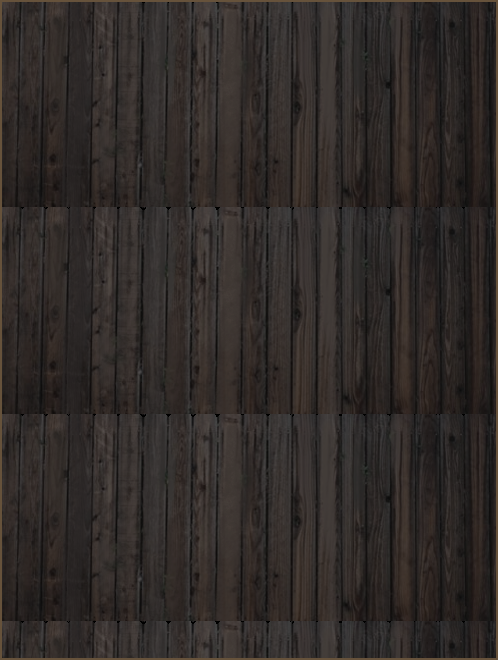
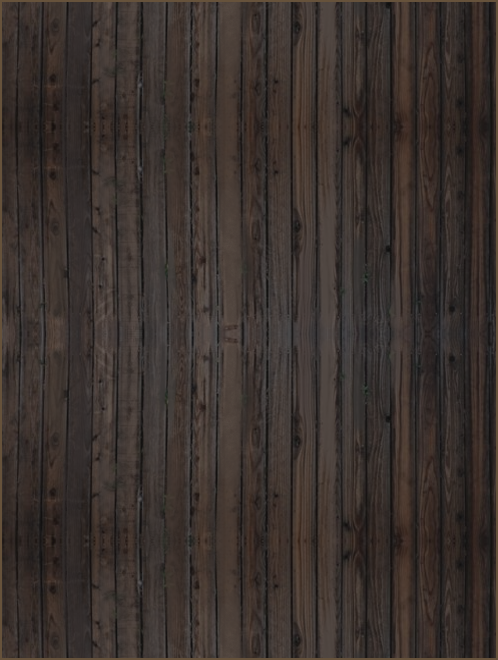
Restore original education noticeboard and join wood grain seamlessly

diff --git a/tools/generate_education_reform.py b/tools/generate_education_reform.py
@@ -449,7 +449,7 @@ def gui_outputs():
         button(f'edu_category_{category}',f'GFX_RUS_edu_workbench_category_{category}',x,182,f'RUS_edu_category_{category}_tooltip')
         text(f'edu_category_{category}_label',f'RUS_edu_category_icon_{category}',x,242,72,h=18,transparent=True)
     text('edu_catalog_heading','RUS_edu_catalog_heading',54,282,390,h=22)
-    icon('education_noticeboard','GFX_RUS_education_noticeboard',0,298)
+    icon('education_noticeboard','GFX_RUS_education_noticeboard',0,334)
     button('edu_board_next','GFX_RUS_edu_workbench_page',444,278,'RUS_edu_board_next_tooltip')
     props=[f'{kind}_bar = {{ frame = RUS_edu_bar_{kind} }}' for kind in VARS]
     guard='has_country_flag = RUS_education_system_active'
@@ -465,19 +465,14 @@ def gui_outputs():
         'if = { limit = { check_variable = { RUS_edu_board_page = 1 } } '+setv('RUS_edu_board_page',2)+' }',
         'else = { '+setv('RUS_edu_board_page',1)+' }','RUS_education_refresh = yes']),'}']).strip())
     for i,x in enumerate((6,168,330),1):
-        page=' check_variable = { RUS_edu_board_page < 2 }' if i==3 else ''
-        icon(f'poster_empty_{i}','GFX_RUS_edu_workbench_pockets',x,334,frame=2)
-        icon(f'poster_locked_{i}','GFX_RUS_edu_workbench_pockets',x,334,frame=1)
         icon(f'poster_{i}','GFX_RUS_education_posters',x,334,'RUS_edu_slot_'+str(i)+'_tooltip')
         icon(f'activity_progress_{i}','GFX_RUS_edu_activity_bar',x+21,547)
         text(f'activity_name_{i}','RUS_edu_slot_'+str(i)+'_name',x+1,574,158,h=36)
         text(f'activity_days_{i}','RUS_edu_slot_'+str(i)+'_text',x+1,612,158,h=22)
-        triggers += [f'poster_{i}_visible = {{ check_variable = {{ RUS_edu_catalog_{i}_running = 1 }}'+page+' }',
-                     f'poster_empty_{i}_visible = {{ NOT = {{ check_variable = {{ RUS_edu_catalog_{i}_running = 1 }} }} check_variable = {{ RUS_edu_catalog_{i}_frame > 1 }}'+page+' }',
-                     f'poster_locked_{i}_visible = {{ NOT = {{ check_variable = {{ RUS_edu_catalog_{i}_running = 1 }} }} check_variable = {{ RUS_edu_catalog_{i}_frame = 1 }}'+page+' }',
-                     f'activity_progress_{i}_visible = {{ check_variable = {{ RUS_edu_catalog_{i}_running = 1 }} }}',
+        triggers += [f'activity_progress_{i}_visible = {{ check_variable = {{ RUS_edu_catalog_{i}_running = 1 }} }}',
                      f'activity_days_{i}_visible = {{ check_variable = {{ RUS_edu_catalog_{i}_running = 1 }} }}']
-        if i==3:triggers += ['activity_name_3_visible = { check_variable = { RUS_edu_board_page < 2 } }']
+        if i==3:triggers += ['poster_3_visible = { check_variable = { RUS_edu_board_page < 2 } }',
+                            'activity_name_3_visible = { check_variable = { RUS_edu_board_page < 2 } }']
         props += [f'poster_{i} = {{ image = "[RUSEducationPosterAge{i}]" frame = RUS_edu_catalog_{i}_frame }}',f'activity_progress_{i} = {{ frame = RUS_edu_catalog_{i}_progress }}']
     gui='guiTypes = {\n'+block('containerWindowType',['name = "RUS_education_dashboard_window"','position = { x = 4 y = 0 }','size = { width = 498 height = 660 }']+ui)+'}\n'
     sgui='scripted_gui = {\n'+block('RUS_education_dashboard',['context_type = decision_category','window_name = "RUS_education_dashboard_window"',block('properties',props).strip(),block('triggers',triggers).strip(),block('effects',click_effects).strip()])+'}\n'
@@ -487,15 +482,14 @@ def gui_outputs():
     sprites.append(block('spriteType',['name = "GFX_RUS_education_posters"',f'texturefile = "{ART.as_posix()}/posters.dds"',f'noOfFrames = {len(ACTIVITIES)+2}']))
     for stage in range(1,4):
         sprites.append(block('spriteType',[f'name = "GFX_RUS_education_posters_aged_{stage}"',f'texturefile = "{ART.as_posix()}/posters_aged_{stage}.dds"',f'noOfFrames = {len(ACTIVITIES)+2}']))
-    sprites.append(block('spriteType',['name = "GFX_RUS_education_noticeboard"',f'texturefile = "{WORKBENCH.as_posix()}/clipboard.png"','legacy_lazy_load = no']))
+    sprites.append(block('spriteType',['name = "GFX_RUS_education_noticeboard"','texturefile = "gfx/interface/propaganda/propaganda_bg.dds"','legacy_lazy_load = no']))
     for name in ('metric_panel','metric_name_panel','metric_value_panel'):
         path=WORKBENCH/'metric_plate.png' if name=='metric_panel' else ART/(name+'.dds')
         sprites.append(block('spriteType',[f'name = "GFX_RUS_education_{name}"',f'texturefile = "{path.as_posix()}"']))
     for kind,texture in [('basic',f'{ART.as_posix()}/basic_texticon.dds'),('higher',f'{ART.as_posix()}/higher_texticon.dds'),('heat','gfx/texticons/SOV_propaganda_text_icon.dds')]:
         sprites.append(block('spriteType',[f'name = "GFX_RUS_edu_{kind}_texticon"',f'texturefile = "{texture}"','legacy_lazy_load = no']))
-    for name in ['desk','memo','intro','page','selection','pockets']+[f'category_{c}' for c in POSTER_CATEGORIES]:
+    for name in ['desk','memo','intro','page','selection']+[f'category_{c}' for c in POSTER_CATEGORIES]:
         fields=[f'name = "GFX_RUS_edu_workbench_{name}"',f'texturefile = "{WORKBENCH.as_posix()}/{name}.png"','legacy_lazy_load = no']
-        if name=='pockets':fields.append('noOfFrames = 2')
         if name in ('intro','page') or name.startswith('category_'):fields+=['noOfFrames = 1','effectFile = "gfx/FX/buttonstate.lua"']
         sprites.append(block('spriteType',fields))
     return {GUI:gui,SGUI:sgui,GFX:'spriteTypes = {\n'+''.join(sprites)+'}\n'}
@@ -605,8 +599,8 @@ def localisations():
         l['RUS_edu_'+aid+'_finish_tt']=finish
         l['RUS_edu_activity_'+aid]=a['name']
     for i in range(1,4):
-        l[f'RUS_edu_slot_{i}_name']=f'§b[RUSEducationSlot{i}]§!'
-        l[f'RUS_edu_slot_{i}_text']=f'§b[RUSEducationSlot{i}Days]§!'
+        l[f'RUS_edu_slot_{i}_name']=f'[RUSEducationSlot{i}]'
+        l[f'RUS_edu_slot_{i}_text']=f'[RUSEducationSlot{i}Days]'
         l[f'RUS_edu_slot_{i}_countdown']=f'剩余 [?RUS_edu_catalog_{i}_days|0] 天'
         l[f'RUS_edu_slot_{i}_tooltip']=f'[RUSEducationSlot{i}]\\n[RUSEducationSlot{i}Days]'
     from education_workbench_art import spec as workbench_spec

diff --git a/tools/test_education_reform.py b/tools/test_education_reform.py
@@ -912,20 +912,25 @@ class EducationTests(unittest.TestCase):
                     self.assertEqual(strip.crop((pct*118,0,(pct+1)*118,21)).tobytes(),expected.tobytes())
                 self.assertNotEqual(strip.getpixel((20*118+10,10)),base.getpixel((10,10)),'The native fill layer must be visibly nonempty')
         sprites={x.value('name').strip('"'):x for root in load(ROOT/GFX) for x in root.v}
-        self.assertEqual(sprites['GFX_RUS_education_noticeboard'].value('texturefile').strip('"'),'gfx/interface/RUS_education/workbench/clipboard.png')
+        self.assertEqual(sprites['GFX_RUS_education_noticeboard'].value('texturefile').strip('"'),'gfx/interface/propaganda/propaganda_bg.dds')
+        with Image.open(ROOT/'gfx/interface/RUS_education/workbench/desk.png') as desk, Image.open(game/'gfx/interface/propaganda/propaganda_bg.dds') as wood:
+            self.assertEqual(desk.getchannel('A').getextrema(),(255,255))
+            # The original board keeps its grain; both adjoining rows meet exactly.
+            self.assertEqual(desk.crop((2,334,496,541)).convert('RGB').tobytes(),wood.crop((2,0,496,207)).convert('RGB').tobytes())
+            for joint in (334,541):
+                self.assertEqual(desk.crop((2,joint-1,496,joint)).tobytes(),desk.crop((2,joint,496,joint+1)).tobytes())
         controls=load(ROOT/GUI)[0].v[0].v;names=[n.value('name').strip('"') for n in controls if n.value('name')]
         self.assertLess(names.index('education_noticeboard'),names.index('poster_1'))
         triggers=load(ROOT/SGUI)[0].v[0].one('triggers');m=initialized()
         for i in range(1,4):
             self.assertFalse(m.check(triggers.one(f'activity_progress_{i}_visible')))
             self.assertFalse(m.check(triggers.one(f'activity_days_{i}_visible')))
-            self.assertFalse(m.check(triggers.one(f'poster_{i}_visible')))
-            self.assertTrue(m.check(triggers.one(f'poster_{"locked" if i==3 else "empty"}_{i}_visible')))
+            self.assertFalse(any(name in names for name in (f'poster_empty_{i}',f'poster_locked_{i}')))
+            self.assertTrue(m.check(triggers.one(f'poster_{i}_visible')) if triggers.one(f'poster_{i}_visible') else True)
             self.assertEqual(m.vars[f'RUS_edu_catalog_{i}_frame'],1 if i==3 else 2)
             self.assertEqual(m.vars[f'RUS_edu_catalog_{i}_activity'],0)
         m.start('literacy');self.assertTrue(m.check(triggers.one('activity_progress_1_visible')))
-        self.assertTrue(m.check(triggers.one('poster_1_visible')))
-        self.assertFalse(m.check(triggers.one('poster_empty_1_visible')))
+        self.assertGreater(m.vars['RUS_edu_catalog_1_frame'],2)
         m.end('literacy',True);self.assertFalse(m.check(triggers.one('activity_progress_1_visible')))
         window=load(ROOT/GUI)[0].v[0]
         self.assertEqual(window.one('position').value('x'),'4')

diff --git a/tools/education_workbench_art.py b/tools/education_workbench_art.py
@@ -62,10 +62,15 @@ def render():
         icon=fit(subject,box);paste(out,icon,((size[0]-icon.width)//2,top))
         return out
     out={}
-    wood=images['wood'];desk=Image.new('RGBA',tuple(data['canvas']))
-    for y in range(0,desk.height,wood.height):desk.alpha_composite(wood,(0,y))
-    rgb=ImageEnhance.Color(desk.convert('RGB')).enhance(.75)
-    rgb=ImageEnhance.Brightness(rgb).enhance(.85);desk=rgb.convert('RGBA')
+    # Anchor the untouched native board at y334, then reflect its grain above
+    # and below. Matching edge rows avoid horizontal repeat seams or a colour
+    # jump under the native overlay. Use opaque RGB so its ragged alpha edge
+    # does not leave black holes at the extension joints.
+    wood=images['wood'].convert('RGB');desk=Image.new('RGBA',tuple(data['canvas']))
+    for y in range(desk.height):
+        phase=(y-334)%(2*wood.height)
+        source_y=phase if phase<wood.height else 2*wood.height-1-phase
+        desk.paste(wood.crop((0,source_y,wood.width,source_y+1)),(0,y))
     ImageDraw.Draw(desk).rectangle((0,0,desk.width-1,desk.height-1),outline='#66523b',width=2)
     out['desk']=desk
     out['memo']=plate((406,64));out['metric_plate']=plate((160,82))

diff --git a/维护索引.md b/维护索引.md
@@ -73,7 +73,7 @@
 | 休息室斗地主测试 | `generate_doudizhu.py`；`doudizhu_game/rules/roster/gui.py`；维护见 `tools/DOUDIZHU.md` | 免费测试决议打开1000×680独立牌桌，54张无放回发牌、叫分、14种牌型、两位脚本牌友和结算；每局从现任领袖及已解锁文职顾问/内阁抽3名不同人物，统一顾问小头像。关闭保留、两次确认结束，座位旁显示本轮/上轮动作，三席实体出牌各自保留到本人下次出牌并按行居中，手牌约1–3秒、底牌1–1.8秒原生滑入，三席1000ms出牌滑动，双容器切换重播而不增加游戏日期计时；电脑按公开局势及累计已出牌协作，双农民跟牌拦地主、给收尾队友留接牌机会、优先使用足够安全的控制牌；不用每日钩子、不改战役数值。`validate.py --group cards`检查，默认只读，显式`--write`写出、`--write --assets`重画几何UI；本轮未更新上传目录。 |
 | 五年计划与联邦计划委员会 | `RUS_stalin_five_year_plan_*`、`RUS_federal_planning_commission_*` | 计划任务、分数和工业奖励分别追踪；联邦计划委员会还包含装备、修正和专用界面 |
 | 独立工业规划沙盘 | `generate_industrial_planning.py`、`industrial_planning_catalog.py`、`industrial_planning_factory.py`、`industrial_planning_factory_ui.py`、`industrial_planning_factory_assets.py`、`industrial_planning_factory_freight.py`、`industrial_planning_factory_freight_ui.py`、`build_factory_regions.py`及factory_regions.json；维护见`tools/INDUSTRIAL_PLANNING.md`，玩家说明见`工业建设GUI玩法说明.md` | 测试决议解锁；1600×1040窗口、851格六区随机厂区、40px单格，察里津179格涵盖顿河/库班/北高加索、不含巴库；动态图标和底色将控件压至6,334个，保持格子与经营状态；21种设施、七类成品、500产值目标、1800天自动生产；运输站支持十种物资持续自动跨区运输，保留库存、按批计时、运费、断线等待与自动恢复；基础/特色/运输三页；不接管旧一五计划、不占原生经济、不构建上传目录 |
-| 教育与文化建设 | `tools/education_reform_content.py`、`education_poster_expansion.py`、`education_permanent_rewards.py`、`generate_education_reform.py`；`RUS_education_dashboard` | 20261024连续基础/高等/热情、51项海报宣传与2调节、六类筛选且只张贴在办活动、最多5总槽及分类在办海报分页与五种并行类型、13个35日国策及3/6/9次门槛（均显示条件）、向左12次及时代前进20次；军事/战时/胜利纪念分别按军改第四阶段/外交062/005解锁；完成可给限时地区修正与国家农业支援；单次宣传加成后基础/高等增量上限4/2，39种期间修正同时给收益与代价，期间正面效果增至2.5–5倍、指定1%/1.5%代价加重，原53项永久奖励独立保留且五池封顶；热情55最佳、30/75收益约55%，偏离惩罚连续加重。海报按已进行比例25/50/75%切换原版素材打包的三档磨损，分类切换保留、结束恢复胶痕；素材导入器默认只读，显式--write导入用户压缩包并校验SHA，图集53帧；只测试开发，集中重复海报×1.5且永久奖励不变，业余花费减半及180天犹豫/360天澎湃精神，向左科研槽+1、时代，前进！费用−25%、宣传栏位+2（删除减半日数）、53项期间正面国家修正×2而代价/教育/完成奖励不变，理论追加365天临时科研槽+1，实践追加150政治点/解锁加里宁且空槽自动任命，加里宁海报费用另−15%及全部53项日数−25%（整天取整），在办期限不变；图中13项描述/旧奖励基线见RUS_education_focus_update_20261024.json，原图另存design目录；事件留接口。维护说明`tools/教育与文化建设_维护说明.md`；检查`validate.py --group education agriculture structure`，界面校样`preview_education_dashboard.py`；运行时由用户新局实测。 20261025分类原生_desc按用户全文加入五段介绍及§R亮红口号，位置为标题下/GUI上；来源`tools/design/RUS_education_intro_20261025.json`，重复GUI标题保持删除；20261026工作台重构为498×660、x4匹配原生502槽，木纹/夹板/纸签素材14源14PNG登记`design/education_workbench_20261026/`，`education_workbench_art.py --write`确定性打包（默认只读哈希）。六类实物图标可点击、原生shader悬浮/按下、金框选中；文件物件开合介绍、文件放大镜翻页，叠加文字穿透。空/锁栏改纸张水印，实际宣传与磨损保留；介绍默认收起、原文/红口号/原点击玩法不变；`preview_education_dashboard.py`含组合校样。 |
+| 教育与文化建设 | `tools/education_reform_content.py`、`education_poster_expansion.py`、`education_permanent_rewards.py`、`generate_education_reform.py`；`RUS_education_dashboard` | 20261024连续基础/高等/热情、51项海报宣传与2调节、六类筛选且只张贴在办活动、最多5总槽及分类在办海报分页与五种并行类型、13个35日国策及3/6/9次门槛（均显示条件）、向左12次及时代前进20次；军事/战时/胜利纪念分别按军改第四阶段/外交062/005解锁；完成可给限时地区修正与国家农业支援；单次宣传加成后基础/高等增量上限4/2，39种期间修正同时给收益与代价，期间正面效果增至2.5–5倍、指定1%/1.5%代价加重，原53项永久奖励独立保留且五池封顶；热情55最佳、30/75收益约55%，偏离惩罚连续加重。海报按已进行比例25/50/75%切换原版素材打包的三档磨损，分类切换保留、结束恢复胶痕；素材导入器默认只读，显式--write导入用户压缩包并校验SHA，图集53帧；只测试开发，集中重复海报×1.5且永久奖励不变，业余花费减半及180天犹豫/360天澎湃精神，向左科研槽+1、时代，前进！费用−25%、宣传栏位+2（删除减半日数）、53项期间正面国家修正×2而代价/教育/完成奖励不变，理论追加365天临时科研槽+1，实践追加150政治点/解锁加里宁且空槽自动任命，加里宁海报费用另−15%及全部53项日数−25%（整天取整），在办期限不变；图中13项描述/旧奖励基线见RUS_education_focus_update_20261024.json，原图另存design目录；事件留接口。维护说明`tools/教育与文化建设_维护说明.md`；检查`validate.py --group education agriculture structure`，界面校样`preview_education_dashboard.py`；运行时由用户新局实测。 20261025分类原生_desc按用户全文加入五段介绍及§R亮红口号，位置为标题下/GUI上；来源`tools/design/RUS_education_intro_20261025.json`，重复GUI标题保持删除；20261026工作台重构为498×660、x4匹配原生502槽，木纹/夹板/纸签素材14源14PNG登记`design/education_workbench_20261026/`，`education_workbench_art.py --write`确定性打包（默认只读哈希）。六类实物图标可点击、原生shader悬浮/按下、金框选中；文件物件开合介绍、文件放大镜翻页，叠加文字穿透。下方按后续要求恢复原木板/海报/空锁胶痕及浅色字，木纹对齐y334上下镜像续接且原色不透明，消除横向接缝；实际宣传与磨损保留；介绍默认收起、原文/红口号/原点击玩法不变；`preview_education_dashboard.py`含组合校样。 |
 
 ### 六、全局模式与公共资源
 

diff --git a/tools/教育与文化建设_维护说明.md b/tools/教育与文化建设_维护说明.md
@@ -12,19 +12,19 @@
 
 中间六个72×84纸签实物按钮分别为钢盔、工厂、握手、书册、地球仪、红星奖章，替换旧六个文字按钮；短名使用原版黑色色码，悬浮显示完整类别和切换功能。选中类别单独显示透明金框，按钮复用原版单帧`buttonstate.lua`悬浮/按下效果；叠加文字透明穿透，不挡点击。文件加放大镜物件替代下一页文字按钮，沿用当前类超过3项在办活动才出现的分页条件与两页循环。
 
-下方498×350原生夹板承接3张海报、进度、名称和剩余日数。只有在办活动显示真正海报、原生进度条与剩余日数；空闲/未解锁栏使用低对比纸张水印和锁图案。第一/二页及空栏/锁定/在办状态独立显隐，海报名称和倒计时用原版黑色，保持在纸面内部。“下一组”国策要求仍只在累计宣传次数悬浮中。
+下方按用户后续要求恢复原版498×207木质宣传栏背景propaganda_bg.dds，以及原海报图集的空闲/锁定胶痕帧；不再显示纸质夹板、横线纸和锁水印。只有在办活动才使用真正海报帧、进度条及倒计时，名称/倒计时恢复浅色。木板固定于y334，工作台背景用同一原版木纹以该位置为锚点向上下镜像延展，并统一原色、补为不透明，接缝相邻行一致，避免明暗色差、横向重复线与透明黑缺口；海报区域原木纹逐像素保留，不拉伸海报。“下一组”国策要求仍只在累计宣传次数悬浮中。
 
 玩家指标悬浮仅介绍基本含义、作用及提升途径，不显示每日衰减数值、最佳点、收益倍率或计算说明。活动保留标准奖励数值，具体前置留在国策/决议条件栏。下述公式仅供开发维护。
 
 海报随活动进度分四阶段：0%新贴，25%轻度磨损，50%明显磨损，75%严重磨损。复用原版propaganda.gfx、SOV_propaganda_campaigns_scripted_gui.txt、NSB_soviet_scripted_loc.txt的动态image/固定frame方式。原版aged_texture1/2/3分别是栏位的磨损变体，并非原生三个时间阶段；本模组从这些贴图提取纸边alpha和多张浅色纸面的中性明暗，逐级累计破损，再打包为三份53帧图集；不移植原版人物、文字，也不重画原海报。干净图集、前两帧锁定/空闲胶痕和所有源图保持不变。未使用图像生成，本轮为原版素材的确定性打包。
 
-RUS_edu_catalog_i_age保留未取整的已进行百分比，三个RUSEducationPosterAge选择器从重到轻匹配25/50/75边界；按开始时锁定的run_duration计算，因此顾问/时代时长优惠自动适用，中途取得或失去优惠不改当前磨损。分类只是筛选，切回后仍是实际进度；取消/结束清零age并恢复空栏纸张，三个并行海报各自计时。磨损仅影响显示，不改活动效果或教育收益。贴图来源SHA、输出SHA与阈值登记于asset_manifest.json，打包需Pillow/NumPy；preview_education_dashboard.py同时解析动态image供游戏尺寸校样。
+RUS_edu_catalog_i_age保留未取整的已进行百分比，三个RUSEducationPosterAge选择器从重到轻匹配25/50/75边界；按开始时锁定的run_duration计算，因此顾问/时代时长优惠自动适用，中途取得或失去优惠不改当前磨损。分类只是筛选，切回后仍是实际进度；取消/结束清零age并恢复空栏胶痕，三个并行海报各自计时。磨损仅影响显示，不改活动效果或教育收益。贴图来源SHA、输出SHA与阈值登记于asset_manifest.json，打包需Pillow/NumPy；preview_education_dashboard.py同时解析动态image供游戏尺寸校样。
 
 ## 海报分类与图录
 
 GUI按原素材目录分为六类：军事与保卫01/02/04/13，经济与生产03/07/08，社会与群体05/10/11，文教与思想09/12，国家与生活14/15，胜利与纪念06。现有51项宣传，分类计数12/8/8/16/4/3；新增37项按用户指定主题归类，不强制沿用素材原文件夹；初始选择文教与思想。分类按钮同步筛选下方可执行决议和当前在办海报，不将未开始的活动画成已张贴的海报。并行上限为2/3/4/5张。五个实际占用记录独立管理；当前分类超过3张在办海报时显示两页切换按钮，每页最多3张，第二页最多2张且隐藏第六个位置。切换不影响活动、磨损和计时；少于4张时自动回第一页。
 
-`RUS_edu_category`仅管理筛选；`RUS_edu_catalog_*`是按当前分类和实际在办旗标重算的显示变量，不替换原`RUS_edu_slot_*`占用记录。同类在办海报从左到右各显示一次，未开始/结束/取消的海报不显示；第三栏未解锁时保留锁定纸张与提示。切换分类不取消活动、不扣政治点、不结算奖励，切回后恢复相应活动的当前进度。热情调节不受分类过滤。基础/高等/职业/文化/国防动员五种并行限制独立生效，仍共用最多5个总栏位。
+`RUS_edu_category`仅管理筛选；`RUS_edu_catalog_*`是按当前分类和实际在办旗标重算的显示变量，不替换原`RUS_edu_slot_*`占用记录。同类在办海报从左到右各显示一次，未开始/结束/取消的海报不显示；第三栏未解锁时保留锁定胶痕与提示。切换分类不取消活动、不扣政治点、不结算奖励，切回后恢复相应活动的当前进度。热情调节不受分类过滤。基础/高等/职业/文化/国防动员五种并行限制独立生效，仍共用最多5个总栏位。
 
 271张完整素材索引及中文拟题在`tools/design/education_system_20261024/poster_catalog.json`和`poster_titles_zh.tsv`，原目录分类完整且互斥，50张不同素材与51项游戏源图SHA相同（书市与原图书室复用EDU07）。中文素材题名是检索拟题，游戏宣传口号另列。`build_education_poster_catalog.py`从用户`03_USSR.zip`和当前效果配置生成Word：完整271张图录、当前已实装图文效果及2项无海报热情调节；当前221张未采用素材标记效果未配置，不增加游戏决议。输出在`output/education_catalog_20261024/`，旧55页Word为14项时的交付快照，本轮未重建；构建器已支持新增项目、国策门槛、地区修正与农业联动。素材导入器import_education_poster_sources.py默认只读校验，显式--write从03_USSR.zip按唯一编号导入完整源图并登记SHA；不得直接修改源图。
 

diff --git a/MOD制作日志.md b/MOD制作日志.md
@@ -2,6 +2,13 @@
 
 最后更新：2026-10-26
 
+## 2026-10-26 — 恢复原宣传木板并修整木纹衔接
+
+- 按用户截图恢复下方原版498×207 propaganda_bg.dds木板、原海报和空闲/锁定胶痕帧，撤下夹板与横线纸控件；名称和剩余天数恢复浅色。保留上方六类可点击图标、介绍开合、分页、指标与原进度/磨损。源生成器再生GUI/GFX/SGUI及三语输出，8个点击回调AST、实际教育effects/决议/动态修正与本次前一致。
+- 用户追加要求衔接自然，已用同一原木纹以海报区域y334为锚向上下镜像续接，取消前版桌面的单独变色与直接重复平铺，底层补为不透明。海报区域原木纹逐像素保持，y333/334及y540/541相邻行一致，消除色差横线、参差透明边与黑孔；不缩放海报或改变其胶痕/磨损图集。只更新桌面PNG及其清单哈希，旧夹板/纸张产物保留历史记录、当前GUI不引用。
+- 新增木纹原样保留、上下接缝行一致、背景不透明回归；education/structure六组检查通过。已查看初始/在办原字体预览，生成一致性、编码/重复键、引用/边界及Git空白检查完成；不是引擎截图，游戏内对齐由用户验收。RHoiScribe GUI/GFX/简中绿色，SGUI仅原7处refresh的CW263索引误报，repair dry-run完成且未应用137项历史建议。全项目扫描因RHoiScribe状态数据库锁等待失败，未宣称通过；本地runtime_structure通过，未清理服务锁或修改其他工程。
+- 仅测试开发目录；开工干净，fetch遇GitHub连接重置，未拉取、推送或改写远端。维护说明/索引与素材记录同步，本地提交，不启动游戏、不构建上传目录。
+
 ## 2026-10-26 — 教育工作台与可点击实物图标
 
 - 按用户补充的“风格、可做其他物件、图标可点击”要求独立重构教育GUI，采用本地素材库10件物件和原版4件木纹/纸张/金属/夹板素材，不复制法国报刊电话布局，也未使用图像生成。六类按钮分别用钢盔、工厂、握手、书册、地球仪、红星奖章；完整类名与功能置于悬浮，短名为纸面黑字。原版core.gfx的单帧buttonstate.lua提供悬浮/按下效果，透明金框显示选中类，叠加文字穿透点击。

diff --git a/tools/design/education_workbench_20261026/README.md b/tools/design/education_workbench_20261026/README.md
@@ -8,6 +8,6 @@
 
 六个72×84纸签按钮分别使用钢盔、工厂、握手、书册、地球仪、红星奖章；完整类别和功能留在悬浮里。原版`interface/core.gfx`的`GFX_button_123x34`确认单帧按钮配合`gfx/FX/buttonstate.lua`的悬浮/按下效果。选中状态另用透明金框，不能挡住按钮；文字控件`alwaystransparent=yes`，允许点击穿透。文件物件切换原有介绍展开状态，文件加放大镜物件循环翻阅当前类在办海报的两页。
 
-整体498×660，横向偏移4，与原生`countrydecisionview.gui`的502像素决议槽对齐。原生进度条、三项数值内联图标、在办海报与三档磨损图集保持原文件。新的双帧空栏纸张只在无在办活动时使用，未开展活动不会借此张贴海报。
+整体498×660，横向偏移4，与原生`countrydecisionview.gui`的502像素决议槽对齐。原生进度条、三项数值内联图标、在办海报与三档磨损图集保持原文件。后续按用户要求，下方恢复原版木板背景及海报图集中的空栏/锁定胶痕帧；clipboard.png和pockets.png保留为先前设计产物，当前GUI不引用。未开展活动不会张贴真正海报。原木板y334–540纹理原样保留，桌面背景用同一木纹上下镜像续接，不再变色或循环堆叠透明边缘；y333/334、y540/541两组接缝相邻行完全一致，消除横向断层与透明黑孔。
 
-字体黑色使用原版`interface/core.gfx`的`b={0 0 0}`。GUI生成器管理坐标；不可直接改输出或把文字画进按钮贴图。修改后运行`python tools/validate.py --group education structure`，再用`preview_education_dashboard.py`生成原字体校样。原生悬浮、点击命中、长介绍流排与滚动仍须用户在游戏内确认，预览不模拟引擎。
+上方纸签字体黑色使用原版`interface/core.gfx`的`b={0 0 0}`。海报名称与倒计时恢复浅色。GUI生成器管理坐标；不可直接改输出或把文字画进按钮贴图。修改后运行`python tools/validate.py --group education structure`，再用`preview_education_dashboard.py`生成原字体校样。原生悬浮、点击命中、长介绍流排与滚动仍须用户在游戏内确认，预览不模拟引擎。
